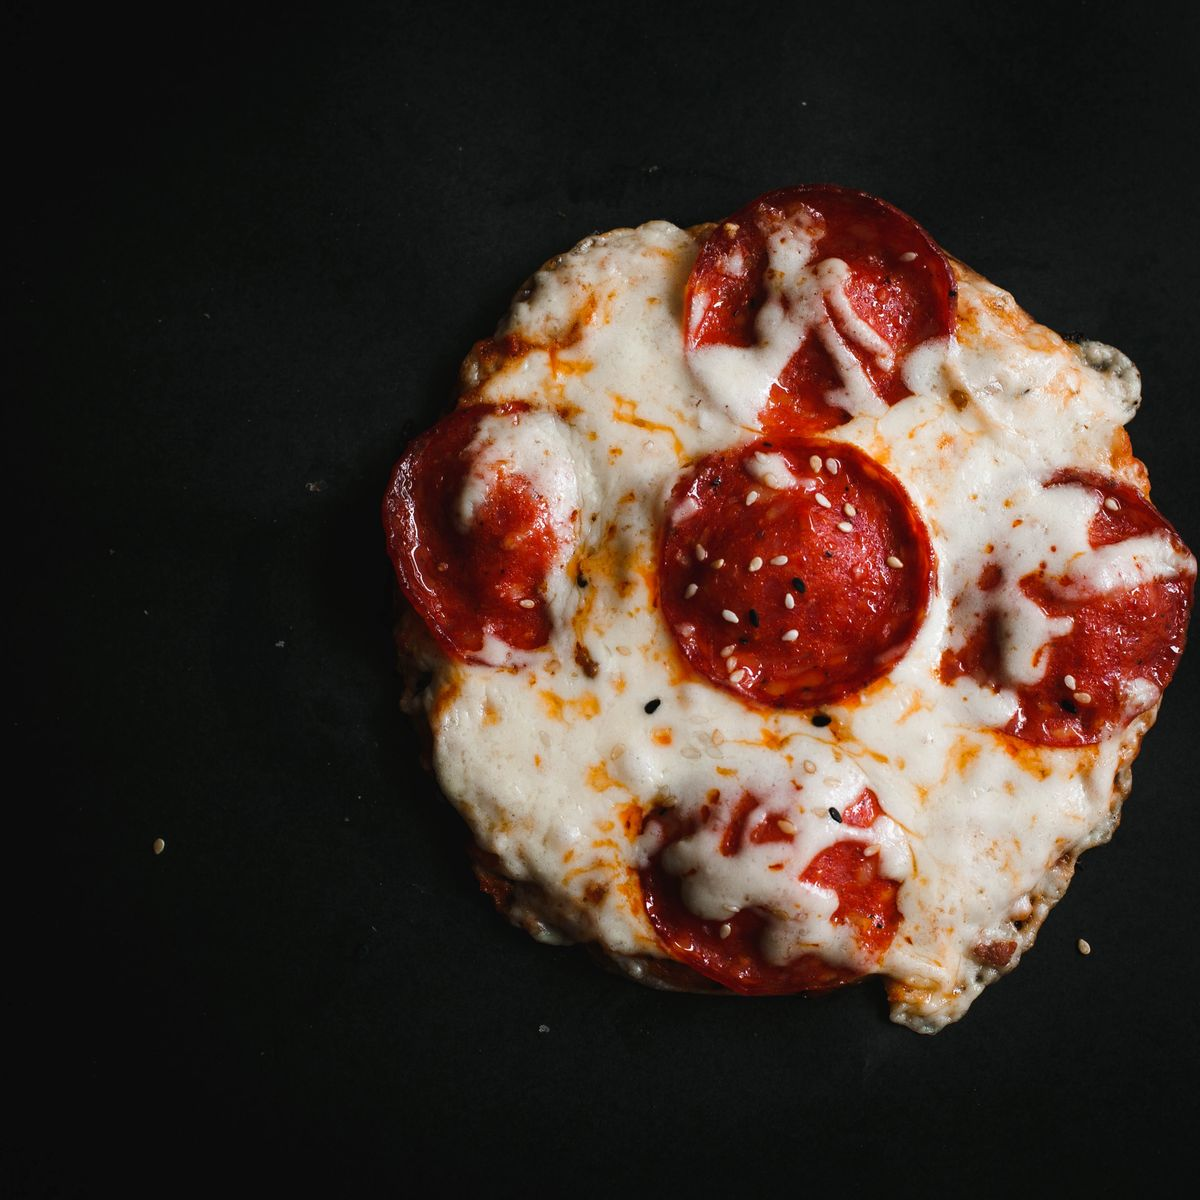
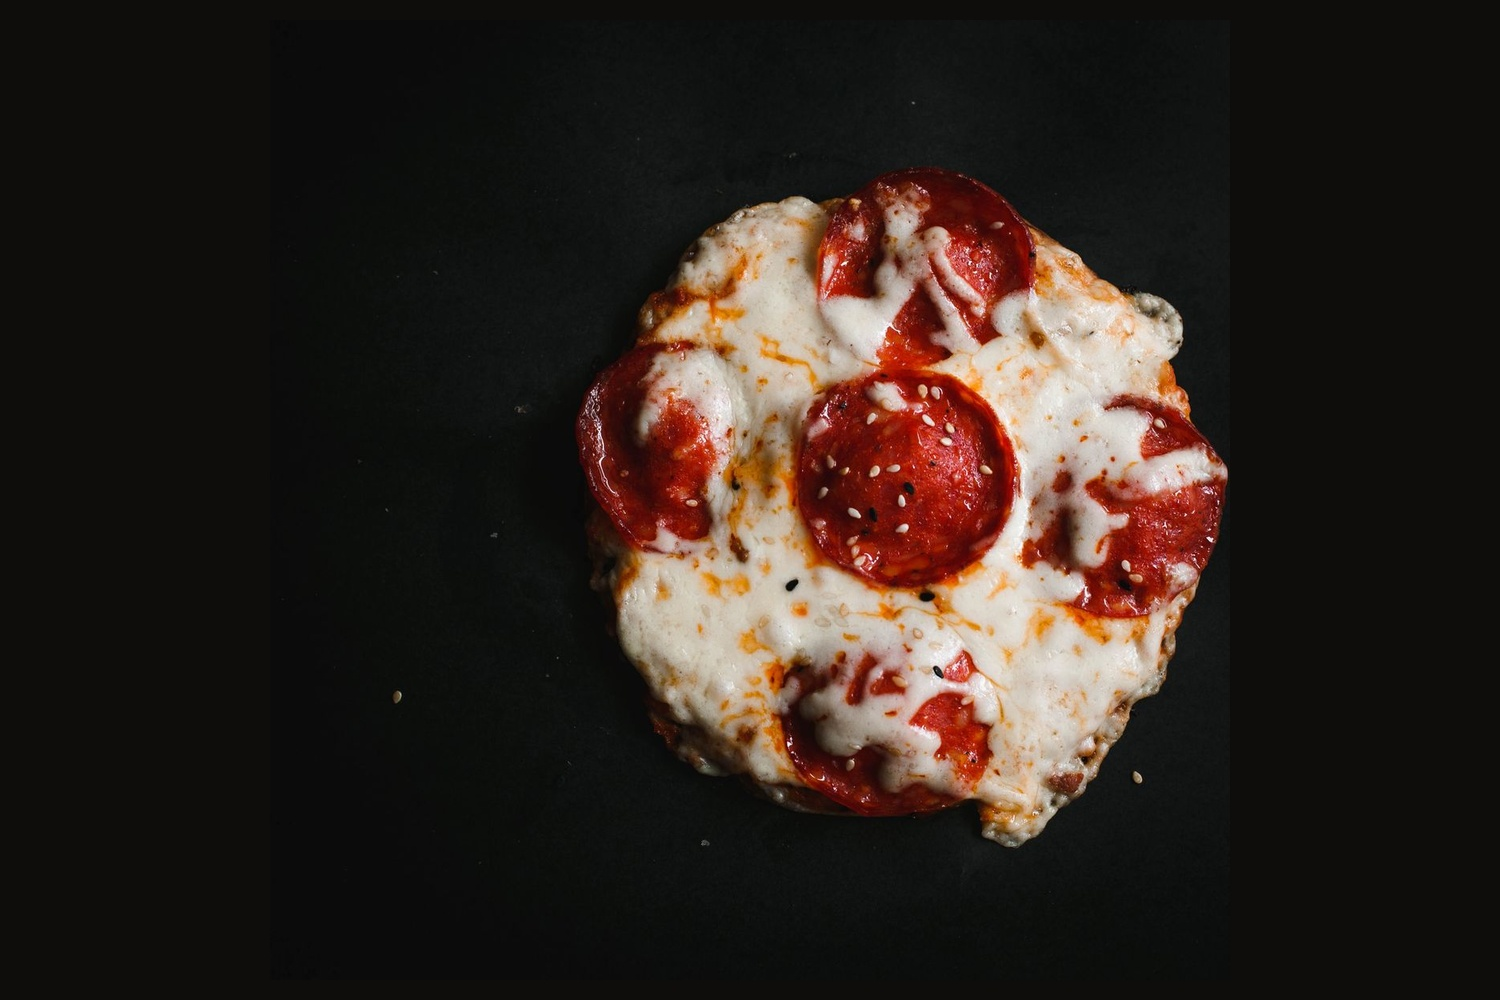
fix(ui): ajustar proporcao do container e enquadramento das imagens

diff --git a/src/Estilo.js b/src/Estilo.js
@@ -104,7 +104,7 @@ export const Estilo = StyleSheet.create({
   },
   cardImageContainer: {
     width: '100%',
-    height: 185,
+    height: 215,
     backgroundColor: Cores.surfaceSoft,
     position: 'relative',
     overflow: 'hidden',
